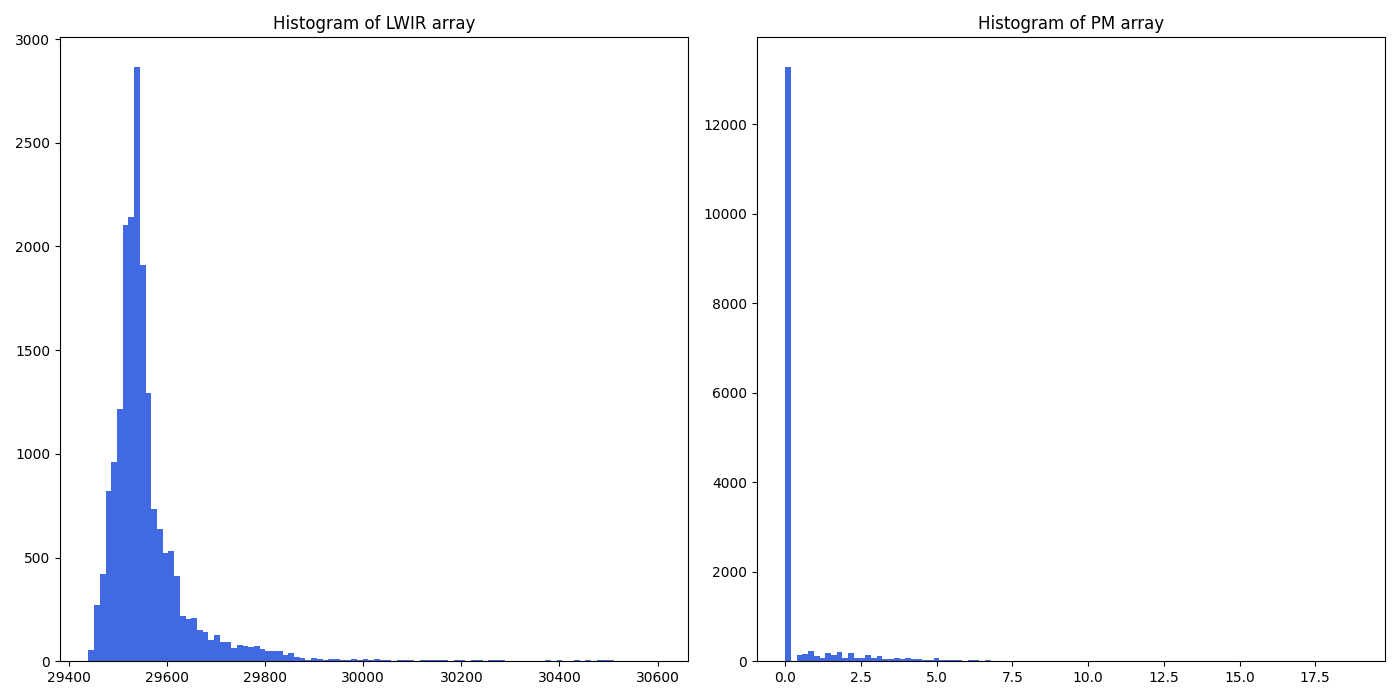
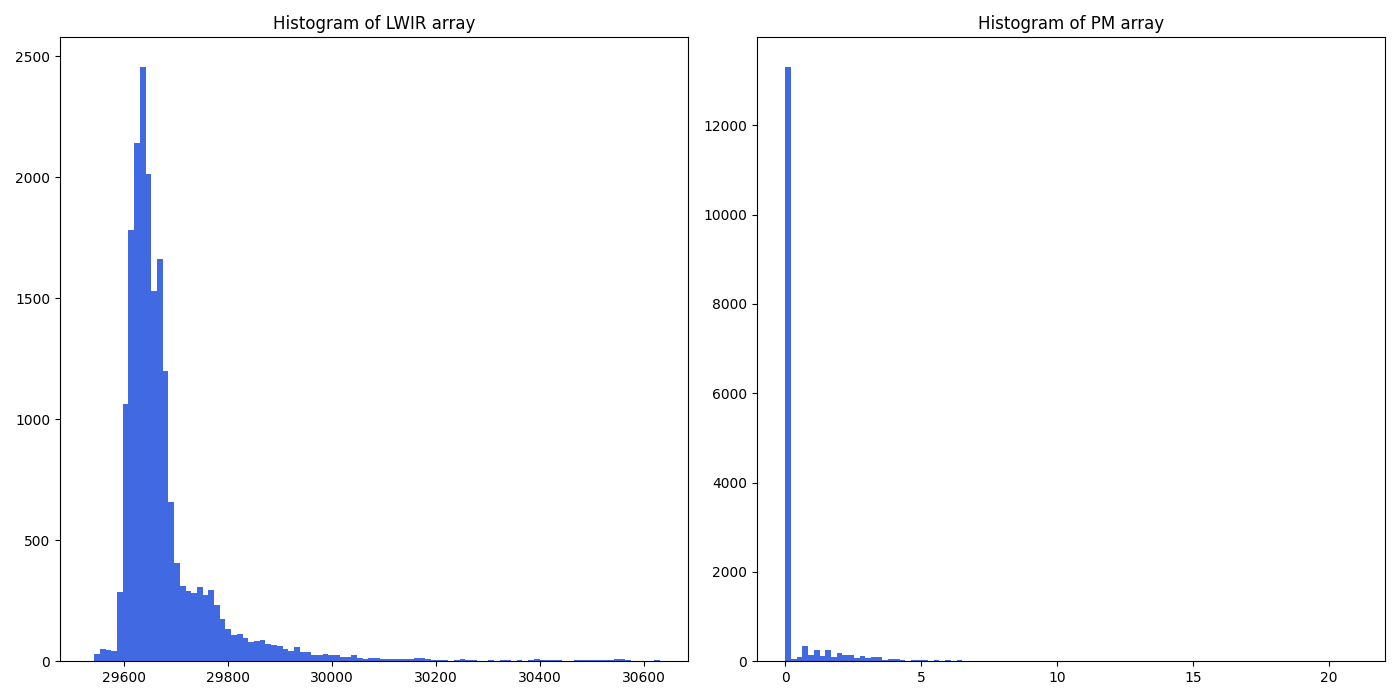
median

diff --git a/Code/Utils/Extras/check_median_filter.py b/Code/Utils/Extras/check_median_filter.py
@@ -60,6 +60,16 @@ for i, patient in enumerate(os.listdir('C:/Users/Gabriel/OneDrive/Escritorio/4t 
                 # Show the plot
                 plt.show()
 
+                fig, axs = plt.subplots(1, 2, figsize=(14, 7))
+
+                axs[0].hist(array_ir.flatten(), bins=100, color='royalblue')
+                axs[0].set_title("Histogram of LWIR array")
+                axs[1].hist(output_array.flatten(), bins=100, color='royalblue')
+                axs[1].set_title("Histogram of PM array")
+                plt.tight_layout()
+                plt.savefig('Histogram_LWIR_PM.png')
+                plt.show()
+
                 break
     break
                 
